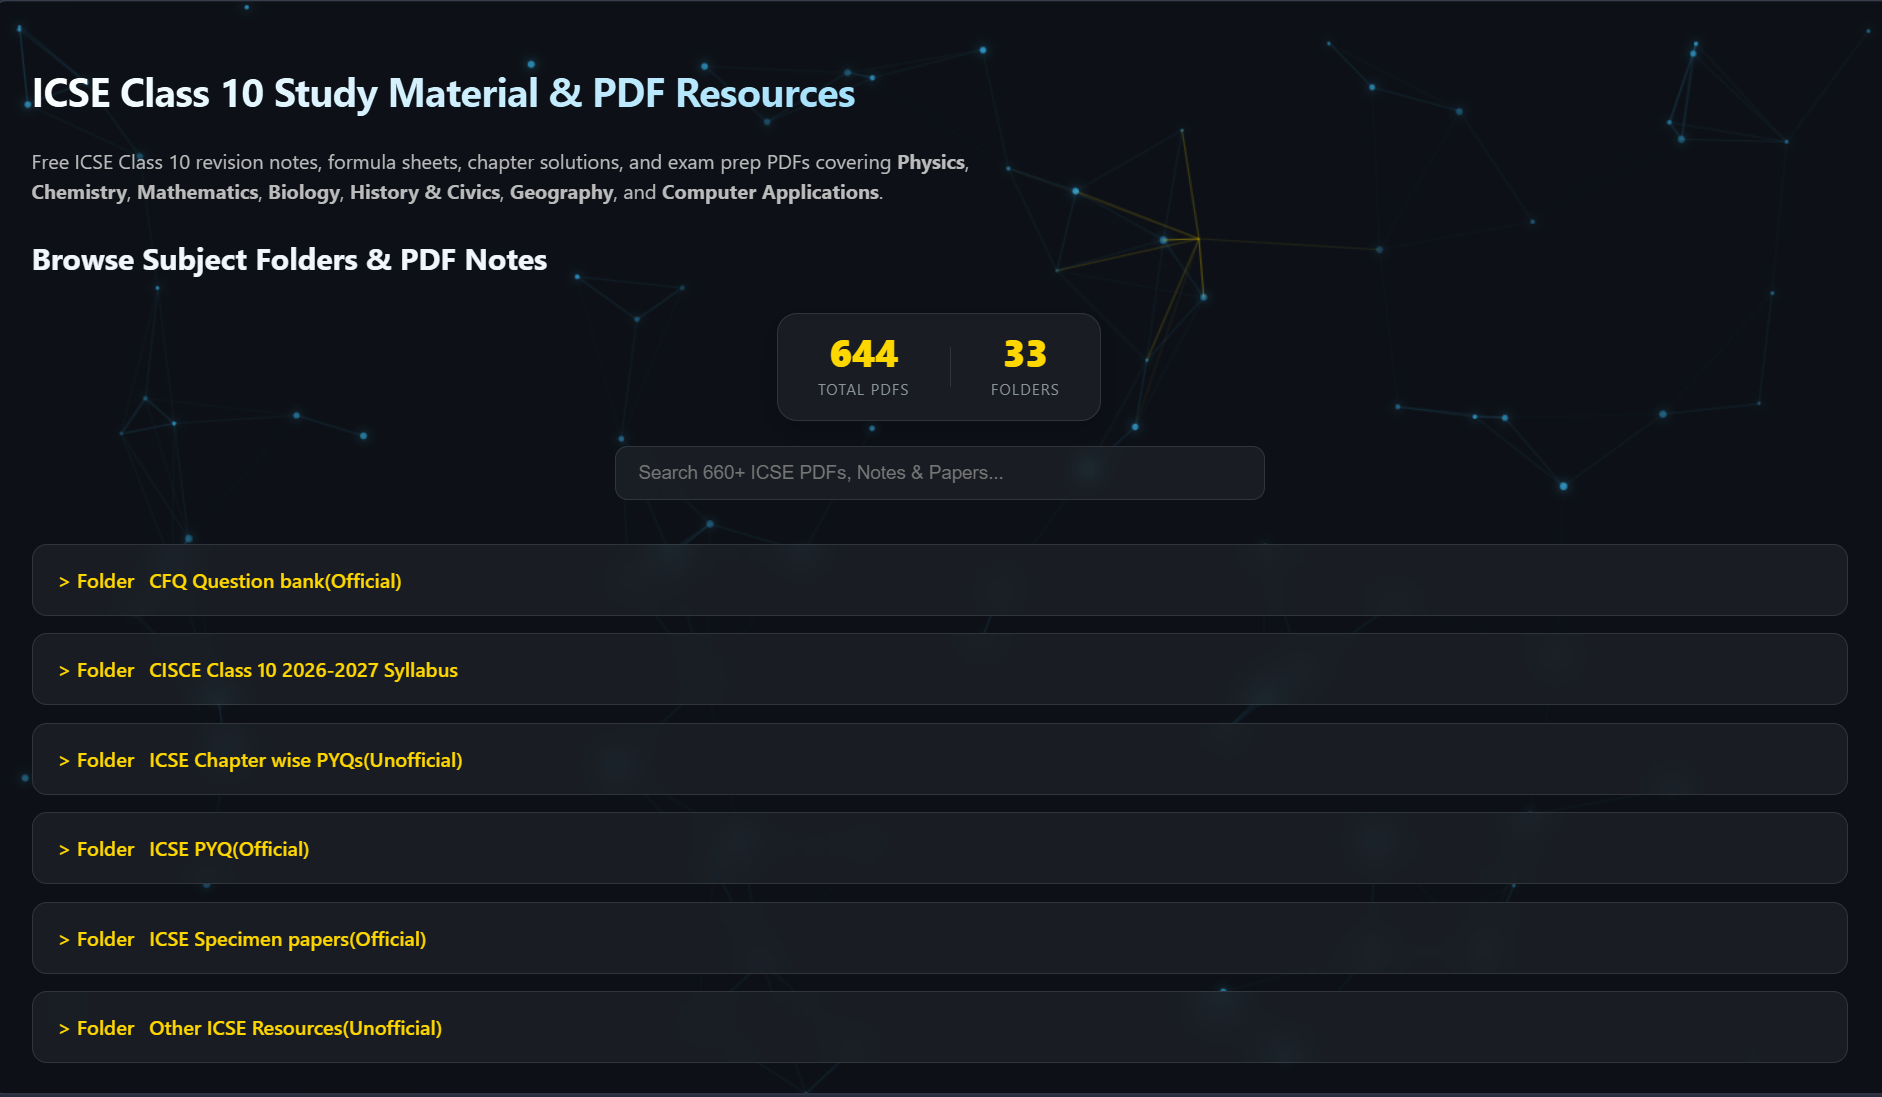
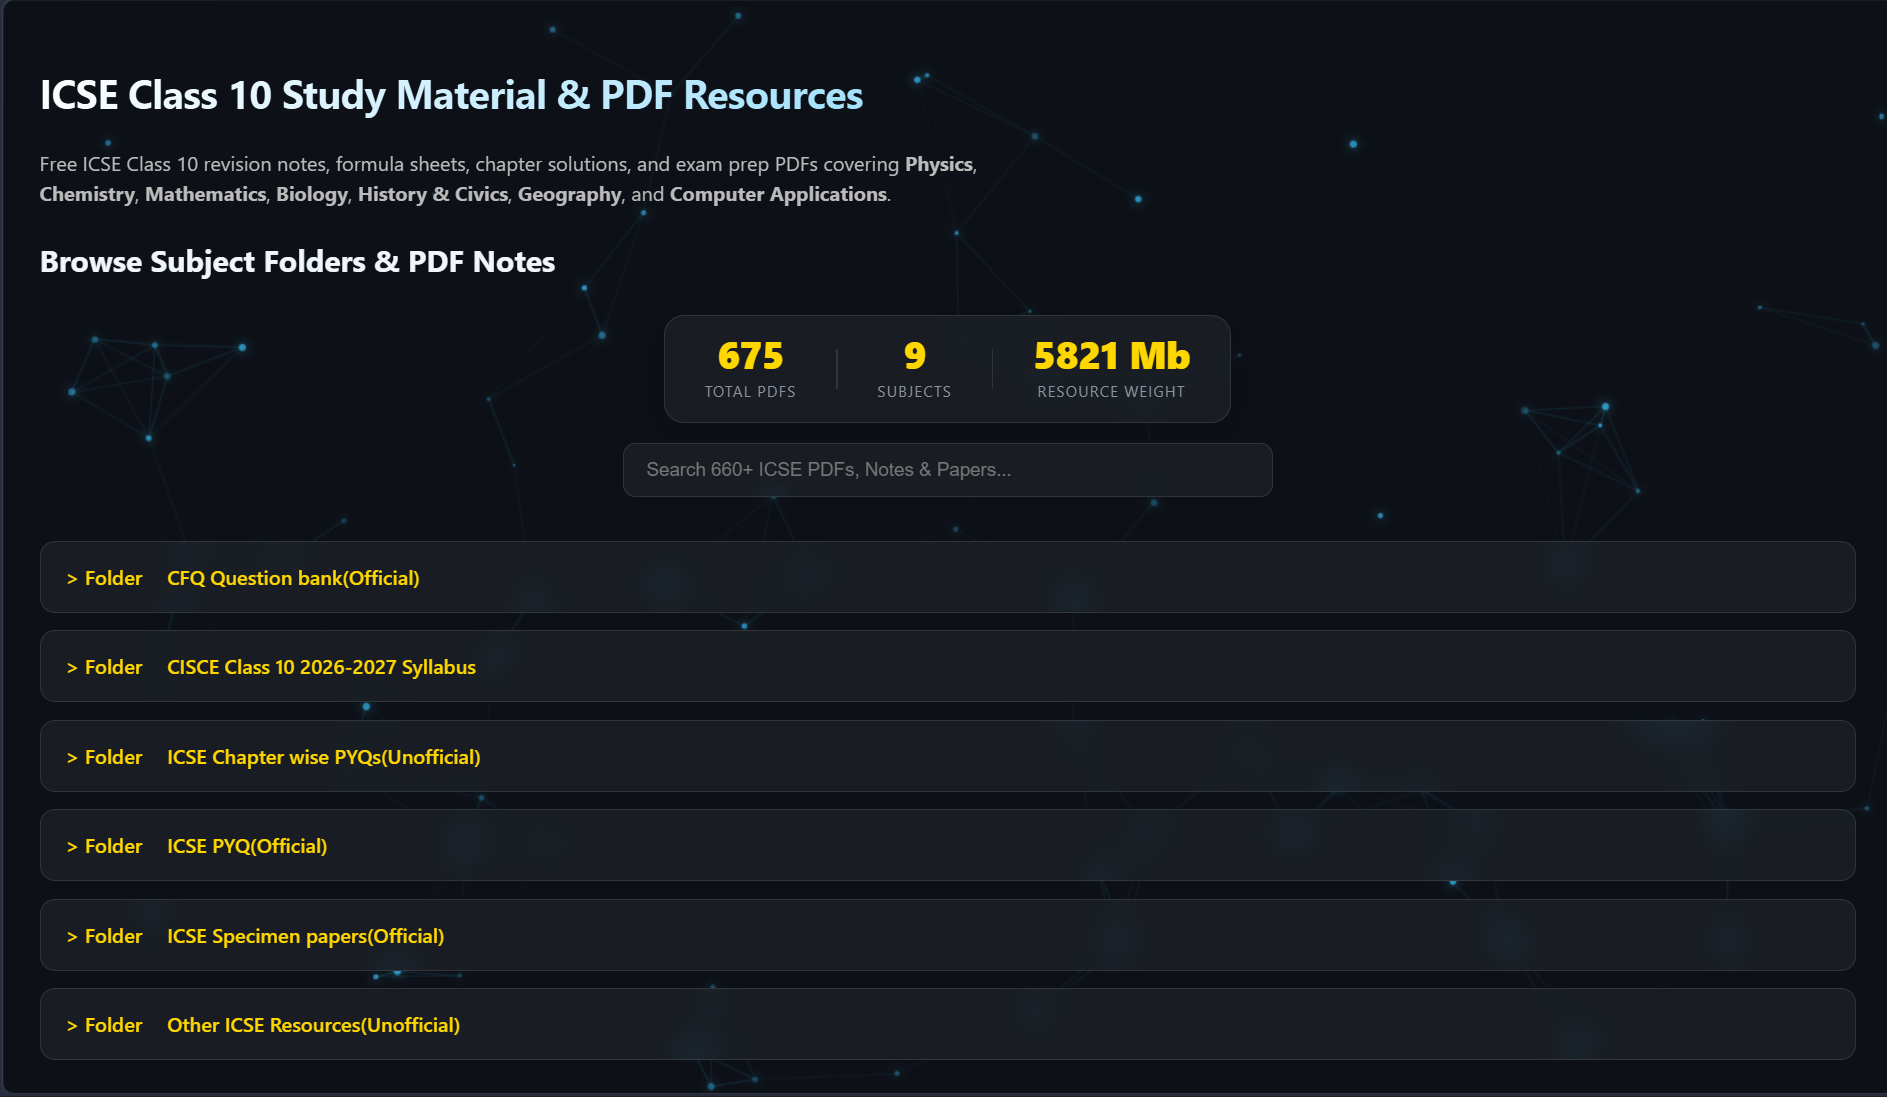
updated the preview image

diff --git a/long-forest-f2da/src/index.ts b/long-forest-f2da/src/index.ts
@@ -17,10 +17,26 @@ export default {
 
     const username = "Logic-Legend-Ranveer";
     const repo = "icse-resources";
+    const branch = "main";
 
-    // 1. If path is empty (root URL), fetch and serve your index.html from GitHub
+    // Common MIME types for raw file requests
+    const mimeTypes: Record<string, string> = {
+      xml: "application/xml; charset=UTF-8",
+      html: "text/html; charset=UTF-8",
+      txt: "text/plain; charset=UTF-8",
+      json: "application/json; charset=UTF-8",
+      css: "text/css; charset=UTF-8",
+      js: "application/javascript; charset=UTF-8",
+      pdf: "application/pdf",
+      png: "image/png",
+      jpg: "image/jpeg",
+      jpeg: "image/jpeg",
+      svg: "image/svg+xml",
+    };
+
+    // 1. Root URL -> Fetch index.html
     if (!path || path === "") {
-      const htmlUrl = `https://raw.githubusercontent.com/${username}/${repo}/main/index.html`;
+      const htmlUrl = `https://raw.githubusercontent.com/${username}/${repo}/${branch}/index.html`;
       const htmlResponse = await fetch(htmlUrl, {
         headers: {
           "User-Agent": "Cloudflare-Worker-Proxy",
@@ -31,15 +47,38 @@ export default {
       return new Response(htmlResponse.body, {
         status: htmlResponse.status,
         headers: {
-          "Content-Type": "text/html;charset=UTF-8",
+          "Content-Type": "text/html; charset=UTF-8",
           "Access-Control-Allow-Origin": "*"
         }
       });
     }
 
-    // 2. Otherwise, proxy folder/file content requests to the GitHub API safely
-    const githubApiUrl = `https://api.github.com/repos/${username}/${repo}/contents/${path}`;
+    // Extract file extension if present
+    const extMatch = path.match(/\.([a-z0-9]+)$/i);
+    const ext = extMatch ? extMatch[1].toLowerCase() : null;
 
+    // 2. Direct File Requests (e.g., sitemap.xml, robots.txt, images, PDFs)
+    if (ext && mimeTypes[ext]) {
+      const rawFileUrl = `https://raw.githubusercontent.com/${username}/${repo}/${branch}/${path}`;
+      const fileResponse = await fetch(rawFileUrl, {
+        headers: {
+          "User-Agent": "Cloudflare-Worker-Proxy",
+          "Authorization": `token ${env.GITHUB_TOKEN}`
+        }
+      });
+
+      return new Response(fileResponse.body, {
+        status: fileResponse.status,
+        headers: {
+          "Content-Type": mimeTypes[ext],
+          "Access-Control-Allow-Origin": "*",
+          "Cache-Control": "public, max-age=3600"
+        }
+      });
+    }
+
+    // 3. Folder/Directory Listings -> GitHub API JSON
+    const githubApiUrl = `https://api.github.com/repos/${username}/${repo}/contents/${path}`;
     const githubResponse = await fetch(githubApiUrl, {
       headers: {
         "User-Agent": "Cloudflare-Worker-Proxy",
